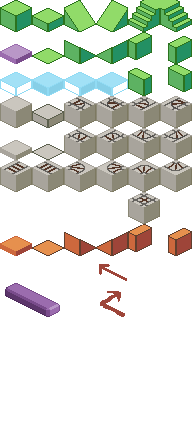
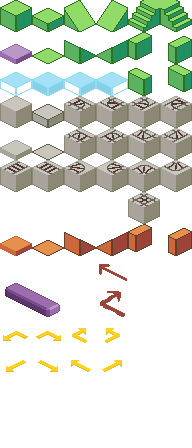
Use new arrows

diff --git a/scripts/TileManager.cs b/scripts/TileManager.cs
@@ -51,8 +51,8 @@ public static class TileManager
         { Tile.RailMergeBottomY, new Vector2I(3, 4) },
         { Tile.RailMergeTopX, new Vector2I(4, 4) },
         { Tile.RailMergeTopY,  new Vector2I(5, 4) },
-        { Tile.StraightArrow, new Vector2I(3, 8) },
-        { Tile.BentArrow, new Vector2I(3, 9) },
+        { Tile.StraightArrow, new Vector2I(2, 11) },
+        { Tile.BentArrow, new Vector2I(2, 10) },
         { Tile.PlatformPurple, new Vector2I(0, 8) },
     };
 
